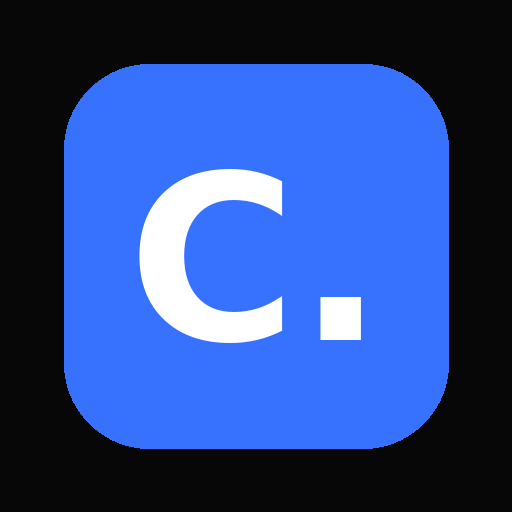
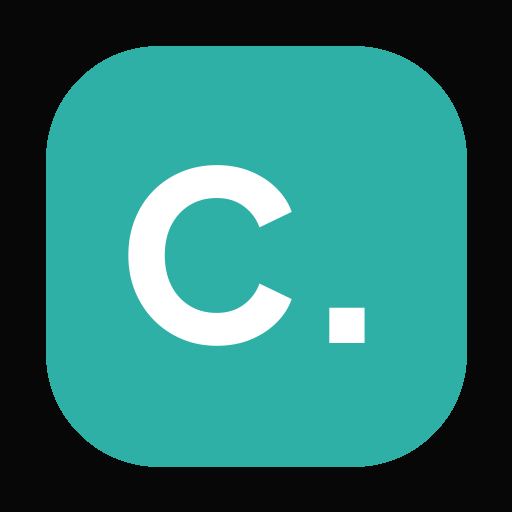
Mobile : navigation adaptée, boutons tactiles, encoches iPhone, icônes PWA
- Navigation mobile : 5 onglets (Routine, Habitudes, Planning, Boîte, Stats)
  + « Plus » (Caddr. IA, Modèles, Réglages) ; marge de sécurité en bas
  (barre d'accueil iPhone/Android). Barre complète conservée sur ordinateur.
- Écrans tactiles : boutons « révélés au survol » toujours visibles, zone de
  toucher ≥ 34 px pour les boutons-icônes, pas de zoom auto iOS sur les champs,
  pas de surbrillance au toucher.
- Encoche / barre d'état iPhone : viewport-fit=cover + marge haute de l'en-tête.
- Fenêtres (Configuration, Journal, Sauter, Déployer…) : marges réduites sur mobile.
- Planning : barre « Planning Caddr. » qui débordait → retour à la ligne.
- PWA : langue fr, nouvelles icônes à la couleur de l'app (standard, maskable,
  apple-touch-icon), manifest complété (id, scope, raccourci Habitudes),
  cache du service worker renouvelé.

Claude-Session: https://claude.ai/code/session_01Qim8noAKTwrvL2rwMewrHh

diff --git a/src/App.tsx b/src/App.tsx
@@ -15,7 +15,7 @@ import {
   Lock, LockOpen, User, LogOut, ShieldCheck, Mail, Key, Settings2, Info,
   Download, Upload, Power, Pencil, Edit3, PieChart, FileText,
   CalendarClock, ArrowUpCircle, BookOpen, PenTool, Crown, Swords,
-  Medal, Sun, Moon, RotateCcw, CloudOff, SkipForward, Hourglass, Lightbulb
+  Medal, Sun, Moon, RotateCcw, CloudOff, SkipForward, Hourglass, Lightbulb, MoreHorizontal
 } from 'lucide-react';
 import { AppData, Block, TabType, RecurrenceType, TimeframeType, RecurringGoal, Task, PriorityType, DayRoutine, UserProfile } from './types';
 import { getKeyFromDate, generateId, isDateInRange } from './utils';
@@ -99,6 +99,7 @@ const App: React.FC = () => {
   const enterGuest = () => { try { localStorage.setItem('caddr_guest', '1'); } catch {} setGuestMode(true); };
   const [isSyncing, setIsSyncing] = useState(false);
   const [isReorderMode, setIsReorderMode] = useState(false);
+  const [showMoreNav, setShowMoreNav] = useState(false);
   const [currentTime, setCurrentTime] = useState(new Date());
   
   // Theme State
@@ -316,7 +317,7 @@ const App: React.FC = () => {
   // Raccourcis d'écran d'accueil (PWA) : ouvre l'onglet demandé via ?tab=
   useEffect(() => {
     const tab = new URLSearchParams(window.location.search).get('tab');
-    const valid: TabType[] = ['routine', 'stats', 'schedule', 'templates', 'ai', 'inbox', 'settings'];
+    const valid: TabType[] = ['routine', 'stats', 'schedule', 'templates', 'ai', 'inbox', 'settings', 'habits'];
     if (tab && valid.includes(tab as TabType)) setActiveTab(tab as TabType);
   }, []);
 
@@ -2193,7 +2194,7 @@ const App: React.FC = () => {
       )}
 
       {/* Header */}
-      <header className="px-4 sm:px-6 py-4 border-b border-[#18181B]/5 dark:border-[#E6E8E6]/5 bg-[#F4F4F5]/80 dark:bg-[#080708]/80 backdrop-blur-xl sticky top-0 z-40 flex flex-col gap-4 max-w-4xl mx-auto w-full transition-colors duration-300">
+      <header style={{ paddingTop: 'max(1rem, env(safe-area-inset-top))' }} className="px-4 sm:px-6 py-4 border-b border-[#18181B]/5 dark:border-[#E6E8E6]/5 bg-[#F4F4F5]/80 dark:bg-[#080708]/80 backdrop-blur-xl sticky top-0 z-40 flex flex-col gap-4 max-w-4xl mx-auto w-full transition-colors duration-300">
         <div className="flex items-center justify-between gap-2 flex-wrap">
             <div className="flex items-center gap-2">
             <button onClick={() => { const d = new Date(currentDate); d.setDate(d.getDate()-1); setCurrentDate(d); }} className="p-2 text-[#18181B]/60 dark:text-[#E6E8E6]/60 hover:text-[#18181B] dark:hover:text-[#E6E8E6] transition-colors"><ChevronLeft size={20}/></button>
@@ -2293,7 +2294,7 @@ const App: React.FC = () => {
         </div>
       </header>
 
-      <main className="max-w-4xl mx-auto px-4 sm:px-6 mt-4 space-y-8">
+      <main className="max-w-4xl mx-auto px-4 sm:px-6 mt-4 space-y-8 pb-24 md:pb-16">
         
         {/* TAB: ROUTINE */}
         {activeTab === 'routine' && (
@@ -2339,7 +2340,7 @@ const App: React.FC = () => {
                     <span className="flex items-center gap-1">Objectif Prioritaire {currentGoal && <Repeat size={8} className="text-accent" />} {currentGoalReminder && <Clock size={8} className="text-accent ml-1" />} <span className="text-accent normal-case ml-1 font-black">{currentGoalReminder}</span></span>
                     <button onClick={() => { const id = generateId(); updateAppData(prev => { const existingGoal = (prev.recurringGoals || []).find(g => isDateInRange(currentDate, g.recurrence, g.specificDate, g.startDate, g.endDate, g.stopDate)); if (existingGoal) { setConfigModal({ type: 'goal', id: existingGoal.id }); return prev; } setConfigModal({ type: 'goal', id }); return { ...prev, recurringGoals: [...(prev.recurringGoals || []), { id, title: currentGoal || "Nouvel Objectif", recurrence: 'specific', specificDate: dateKey }] }; }); }} className="text-[#18181B]/60 dark:text-[#E6E8E6]/60 hover:text-accent transition-colors"><Clock size={12} /></button>
                 </div>
-                <input className="bg-transparent w-full text-lg font-bold outline-none placeholder-[#18181B]/30 dark:placeholder-[#E6E8E6]/30 text-[#18181B] dark:text-[#E6E8E6]" placeholder="Focus du jour..." value={currentGoal} onChange={e => updateAppData(prev => ({ ...prev, days: { ...prev.days, [dateKey]: { ...currentDayData, dailyGoalOverride: e.target.value } } }))} />
+                <input className="bg-transparent w-full text-base sm:text-lg font-bold outline-none placeholder-[#18181B]/30 dark:placeholder-[#E6E8E6]/30 text-[#18181B] dark:text-[#E6E8E6]" placeholder="Focus du jour..." value={currentGoal} onChange={e => updateAppData(prev => ({ ...prev, days: { ...prev.days, [dateKey]: { ...currentDayData, dailyGoalOverride: e.target.value } } }))} />
               </div>
             </div>
 
@@ -2462,10 +2463,10 @@ const App: React.FC = () => {
                                 <span className="text-[9px] font-black text-accent/80 uppercase tracking-wider">{blockPercentage}%</span>
                                 {!block.isCollapsed && (
                                   <div className="flex gap-1 animate-in zoom-in-50">
-                                    <button onClick={() => setConfigModal({ type: 'block', id: block.id })} className="p-1 text-[#18181B]/60 dark:text-[#E6E8E6]/60 hover:text-accent transition-colors" title="Configurer le bloc"><Settings2 size={14} /></button>
-                                    <button onClick={() => { saveToHistory(); handleRoutineStructureChange(blocks => blocks.filter(b => b.id !== block.id)); }} className="p-1 text-[#18181B]/60 dark:text-[#E6E8E6]/60 hover:text-[#DF2935] transition-colors" title="Supprimer le bloc (ce jour uniquement)"><Trash2 size={14} /></button>
-                                    <button onClick={() => addTaskToBlock(block.id)} className="p-1 text-[#18181B]/60 dark:text-[#E6E8E6]/60 hover:text-accent transition-colors"><Plus size={14} /></button>
-                                    <button onClick={() => handleDuplicate('block', block.id)} className="p-1 text-[#18181B]/60 dark:text-[#E6E8E6]/60 hover:text-accent transition-colors"><Copy size={14} /></button>
+                                    <button onClick={() => setConfigModal({ type: 'block', id: block.id })} className="p-2 sm:p-1 text-[#18181B]/60 dark:text-[#E6E8E6]/60 hover:text-accent transition-colors" title="Configurer le bloc"><Settings2 size={14} /></button>
+                                    <button onClick={() => { saveToHistory(); handleRoutineStructureChange(blocks => blocks.filter(b => b.id !== block.id)); }} className="p-2 sm:p-1 text-[#18181B]/60 dark:text-[#E6E8E6]/60 hover:text-[#DF2935] transition-colors" title="Supprimer le bloc (ce jour uniquement)"><Trash2 size={14} /></button>
+                                    <button onClick={() => addTaskToBlock(block.id)} className="p-2 sm:p-1 text-[#18181B]/60 dark:text-[#E6E8E6]/60 hover:text-accent transition-colors"><Plus size={14} /></button>
+                                    <button onClick={() => handleDuplicate('block', block.id)} className="p-2 sm:p-1 text-[#18181B]/60 dark:text-[#E6E8E6]/60 hover:text-accent transition-colors"><Copy size={14} /></button>
                                     {isReorderMode && <button {...blockHandle} className="cursor-grab active:cursor-grabbing touch-none p-1 text-accent" title="Glisser pour réordonner"><GripVertical size={14} /></button>}
                                   </div>
                                 )}
@@ -2708,9 +2709,9 @@ const App: React.FC = () => {
                 </div>
               </div>
             ) : (
-              <div className="glass p-6 rounded-[2rem] flex items-center justify-between border border-accent/20 bg-accent/5">
+              <div className="glass p-5 sm:p-6 rounded-[2rem] flex flex-wrap items-center justify-between gap-4 border border-accent/20 bg-accent/5">
                 <div><h2 className="font-black uppercase tracking-wider text-sm text-[#18181B] dark:text-[#E6E8E6]">PLANNING CADDR.</h2><p className="text-[9px] text-[#18181B]/60 dark:text-[#E6E8E6]/60 font-bold uppercase">Structure & Objectifs</p></div>
-                <div className="flex gap-2">
+                <div className="flex flex-wrap gap-2">
                   <button onClick={() => setTemplateModal(true)} title="Enregistrer comme modèle" className="p-3 bg-[#18181B]/5 dark:bg-[#E6E8E6]/5 rounded-2xl text-[#18181B]/60 dark:text-[#E6E8E6]/60 hover:text-white hover:bg-accent transition-all"><Save size={20} /></button>
                   <button onClick={() => setShowAiGen(true)} title="Générer avec IA" className="p-3 bg-[#FDCA40] rounded-2xl text-[#080708] shadow-lg"><Wand2 size={20} /></button>
                   <input type="file" ref={fileInputRef} onChange={handleVisionImport} className="hidden" accept="image/*" />
@@ -2862,7 +2863,7 @@ const App: React.FC = () => {
         {activeTab === 'inbox' && (
           <div className="space-y-6 animate-in slide-in-from-left-4 duration-500 pb-20">
             {/* ... Existing Inbox Code ... */}
-            <div className="glass p-8 rounded-[2.5rem] space-y-4 border border-accent/20 bg-accent/5">
+            <div className="glass p-5 sm:p-8 rounded-[2.5rem] space-y-4 border border-accent/20 bg-accent/5">
               <div className="flex items-center gap-3"><div className="w-12 h-12 bg-accent/10 rounded-2xl flex items-center justify-center"><Archive className="text-accent" size={24} /></div><div><h2 className="font-black text-lg uppercase leading-tight text-[#18181B] dark:text-[#E6E8E6]">Boîte de tâches</h2><p className="text-[9px] text-[#18181B]/60 dark:text-[#E6E8E6]/60 uppercase font-black">Capturer vos idées en un clin d'œil</p></div></div>
               <div className="space-y-1.5 pt-2"><div className="flex gap-2"><input className="flex-1 bg-white dark:bg-[#080708] p-4 rounded-2xl text-sm font-bold border border-[#18181B]/5 dark:border-[#E6E8E6]/5 outline-none focus:border-accent transition-all text-[#18181B] dark:text-[#E6E8E6]" placeholder="Ex : Appeler Paul demain 15h p1 @appel" value={newInboxTitle} onChange={e => setNewInboxTitle(e.target.value)} onKeyDown={e => e.key === 'Enter' && addInboxTask()} /><button onClick={addInboxTask} className="p-4 bg-accent rounded-2xl text-white shadow-lg shadow-accent/20 active:scale-95 transition-all"><Plus size={20} /></button></div><p className="text-[9px] font-medium text-[#18181B]/40 dark:text-[#E6E8E6]/40 px-1">Reconnaît « demain », « lundi », « 20/10 », « chaque mardi », « 15h30 », « p1/p2/p3 », « @étiquette » et « avant vendredi » (échéance).</p></div>
             </div>
@@ -3123,7 +3124,47 @@ const App: React.FC = () => {
 
       {/* Navigation */}
       {/* Barre du bas — toujours sur mobile ; sur desktop uniquement si position = bas */}
-      <nav className={`fixed bottom-0 left-0 right-0 z-50 bg-[#F4F4F5]/90 dark:bg-[#080708]/90 backdrop-blur-3xl border-t border-[#18181B]/5 dark:border-[#E6E8E6]/5 pb-10 pt-4 px-4 overflow-x-auto custom-scrollbar transition-colors duration-300 ${navPosition === 'left' ? 'md:hidden' : ''}`}>
+      {/* Navigation mobile : 5 onglets principaux + « Plus » (feuille avec les autres) */}
+      <nav className="md:hidden fixed bottom-0 left-0 right-0 z-50 bg-[#F4F4F5]/95 dark:bg-[#080708]/95 backdrop-blur-3xl border-t border-[#18181B]/5 dark:border-[#E6E8E6]/5 pt-2 px-2 transition-colors duration-300" style={{ paddingBottom: 'max(0.6rem, env(safe-area-inset-bottom))' }} aria-label="Navigation principale">
+        <div className="grid grid-cols-6">
+          {(() => {
+            const primary = ['routine', 'habits', 'schedule', 'inbox', 'stats'];
+            const secondaryActive = !primary.includes(activeTab);
+            return (
+              <>
+                {navTabs.filter(t => primary.includes(t.id)).map(tab => (
+                  <button key={tab.id} onClick={() => { setActiveTab(tab.id as TabType); setIsReorderMode(false); setShowMoreNav(false); }} aria-current={activeTab === tab.id ? 'page' : undefined}
+                    className={`flex flex-col items-center gap-1 py-1.5 rounded-xl transition-all ${activeTab === tab.id ? 'text-accent' : 'text-[#18181B]/60 dark:text-[#E6E8E6]/60'}`}>
+                    <tab.icon size={21} strokeWidth={activeTab === tab.id ? 2.5 : 2} />
+                    <span className="text-[9px] font-black whitespace-nowrap">{tab.label === 'Analytics' ? 'Stats' : tab.label}</span>
+                  </button>
+                ))}
+                <button onClick={() => setShowMoreNav(v => !v)} aria-expanded={showMoreNav}
+                  className={`flex flex-col items-center gap-1 py-1.5 rounded-xl transition-all ${secondaryActive || showMoreNav ? 'text-accent' : 'text-[#18181B]/60 dark:text-[#E6E8E6]/60'}`}>
+                  <MoreHorizontal size={21} strokeWidth={secondaryActive ? 2.5 : 2} />
+                  <span className="text-[9px] font-black">Plus</span>
+                </button>
+              </>
+            );
+          })()}
+        </div>
+      </nav>
+      {showMoreNav && (
+        <div className="md:hidden fixed inset-0 z-[45]" onClick={() => setShowMoreNav(false)}>
+          <div className="absolute inset-0 bg-black/40" />
+          <div className="absolute left-3 right-3 glass bg-[#F4F4F5] dark:bg-[#111] rounded-3xl p-3 space-y-1 animate-in slide-in-from-bottom-4" style={{ bottom: 'calc(max(0.6rem, env(safe-area-inset-bottom)) + 4.6rem)' }} onClick={e => e.stopPropagation()}>
+            {navTabs.filter(t => !['routine', 'habits', 'schedule', 'inbox', 'stats'].includes(t.id)).map(tab => (
+              <button key={tab.id} onClick={() => { setActiveTab(tab.id as TabType); setIsReorderMode(false); setShowMoreNav(false); }}
+                className={`w-full flex items-center gap-3 px-4 py-3.5 rounded-2xl text-sm font-bold transition-all ${activeTab === tab.id ? 'bg-accent/15 text-accent' : 'text-[#18181B] dark:text-[#E6E8E6] hover:bg-[#18181B]/5 dark:hover:bg-[#E6E8E6]/5'}`}>
+                <tab.icon size={19} /> {tab.label}
+              </button>
+            ))}
+          </div>
+        </div>
+      )}
+
+      {/* Navigation ordinateur (barre du bas) */}
+      <nav className={`hidden md:block fixed bottom-0 left-0 right-0 z-50 bg-[#F4F4F5]/90 dark:bg-[#080708]/90 backdrop-blur-3xl border-t border-[#18181B]/5 dark:border-[#E6E8E6]/5 pb-6 pt-4 px-4 overflow-x-auto custom-scrollbar transition-colors duration-300 ${navPosition === 'left' ? 'md:hidden' : ''}`}>
         <div className="max-w-4xl mx-auto flex items-center justify-between gap-4 min-w-max px-4">
           {navTabs.map(tab => (
             <button key={tab.id} onClick={() => { setActiveTab(tab.id as TabType); setIsReorderMode(false); }} className={`flex flex-col items-center gap-2 transition-all px-2 ${activeTab === tab.id ? 'text-accent scale-110' : 'text-[#18181B]/60 dark:text-[#E6E8E6]/60'}`}>
@@ -3235,7 +3276,7 @@ const App: React.FC = () => {
 
       {showLevelUpModal && (
         <div className="fixed inset-0 z-[200] bg-[#080708]/90 backdrop-blur-2xl flex items-center justify-center p-6 animate-in zoom-in-50 duration-500">
-           <div className="glass w-full max-w-sm p-10 rounded-[3.5rem] shadow-[0_0_50px_rgba(47, 176, 166,0.3)] border border-accent/30 relative overflow-hidden group text-center space-y-6">
+           <div className="glass w-full max-w-sm p-6 sm:p-10 rounded-[3.5rem] shadow-[0_0_50px_rgba(47, 176, 166,0.3)] border border-accent/30 relative overflow-hidden group text-center space-y-6">
               {/* Confetti / Rays effect bg */}
               <div className="absolute inset-0 bg-gradient-to-tr from-accent/20 via-transparent to-[#FDCA40]/20 animate-pulse" />
               
@@ -3267,7 +3308,7 @@ const App: React.FC = () => {
         <div className="fixed inset-0 z-[110] bg-[#F4F4F5]/95 dark:bg-[#080708]/95 backdrop-blur-xl flex items-center justify-center p-4 sm:p-6 animate-in fade-in">
            <div className="glass relative w-full rounded-[3rem] max-h-[94vh] flex flex-col" style={{ maxWidth: logSize.width }}>
               <SideResizeHandles onStart={logSize.startResize} onReset={logSize.reset} />
-              <div className="p-10 space-y-6 overflow-y-auto custom-scrollbar">
+              <div className="p-6 sm:p-10 space-y-6 overflow-y-auto custom-scrollbar">
               <button
                 onClick={() => { setLogModal(null); setCurrentLogText(""); }}
                 title="Fermer (Échap)"
@@ -3318,7 +3359,7 @@ const App: React.FC = () => {
           <div className="glass relative w-full rounded-[3rem] max-h-[90vh] flex flex-col" style={{ maxWidth: configSize.width }}>
             <SideResizeHandles onStart={configSize.startResize} onReset={configSize.reset} />
 
-            <div className="relative shrink-0 px-10 pt-8 pb-4 text-center">
+            <div className="relative shrink-0 px-6 sm:px-10 pt-7 sm:pt-8 pb-4 text-center">
               <h3 className="font-black uppercase text-sm tracking-widest italic text-[#18181B] dark:text-[#E6E8E6]">Configuration</h3>
               <button
                 onClick={() => setConfigModal(null)}
@@ -3330,7 +3371,7 @@ const App: React.FC = () => {
               </button>
             </div>
 
-          <div className="px-10 pb-10 space-y-6 overflow-y-auto custom-scrollbar">
+          <div className="px-5 sm:px-10 pb-8 sm:pb-10 space-y-6 overflow-y-auto custom-scrollbar">
             
             <div className="space-y-4">
               <div className="space-y-2">
@@ -3647,7 +3688,7 @@ const App: React.FC = () => {
       {/* SKIP TODAY MODAL — remplace window.prompt pour respecter le design de l'app */}
       {skipModal && (
         <div className="fixed inset-0 z-[120] bg-[#F4F4F5]/95 dark:bg-[#080708]/95 backdrop-blur-xl flex items-center justify-center p-6 animate-in fade-in" onMouseDown={(e) => { if (e.target === e.currentTarget) setSkipModal(null); }}>
-           <div className="glass relative w-full max-w-sm p-10 rounded-[3rem] space-y-6 animate-in zoom-in-95">
+           <div className="glass relative w-full max-w-sm p-6 sm:p-10 rounded-[3rem] space-y-6 animate-in zoom-in-95">
               <button
                 onClick={() => setSkipModal(null)}
                 aria-label="Fermer"
@@ -3711,7 +3752,7 @@ const App: React.FC = () => {
       {/* RESCHEDULE MODAL */}
       {rescheduleModal && (
         <div className="fixed inset-0 z-[110] bg-[#F4F4F5]/95 dark:bg-[#080708]/95 backdrop-blur-xl flex items-center justify-center p-6 animate-in fade-in">
-           <div className="glass w-full max-w-sm p-10 rounded-[3rem] space-y-6">
+           <div className="glass w-full max-w-sm p-6 sm:p-10 rounded-[3rem] space-y-6">
               <div className="text-center">
                  <div className="w-16 h-16 bg-[#FDCA40]/10 rounded-2xl flex items-center justify-center mx-auto mb-4">
                     <CalendarClock className="text-[#FDCA40]" size={24} />
@@ -3808,7 +3849,7 @@ const App: React.FC = () => {
            <div className="glass relative w-full rounded-[3rem] max-h-[92vh] flex flex-col" style={{ maxWidth: deploySize.width }}>
               <SideResizeHandles onStart={deploySize.startResize} onReset={deploySize.reset} />
               <button onClick={closeDeploy} title="Fermer (Échap)" aria-label="Fermer" className="absolute z-20 top-7 right-7 w-7 h-7 rounded-full flex items-center justify-center bg-[#18181B]/5 dark:bg-[#E6E8E6]/5 text-[#18181B]/60 dark:text-[#E6E8E6]/60 hover:bg-accent hover:text-white transition-all"><X size={14} strokeWidth={3} /></button>
-              <div className="p-8 sm:p-10 space-y-6 overflow-y-auto custom-scrollbar">
+              <div className="p-6 sm:p-10 space-y-6 overflow-y-auto custom-scrollbar">
               <div className="text-center space-y-2">
                  <div className="w-14 h-14 bg-accent/10 rounded-2xl flex items-center justify-center mx-auto mb-3">
                     <Send className="text-accent" size={22} />
@@ -4007,7 +4048,7 @@ const App: React.FC = () => {
 
       {showAiGen && (
         <div className="fixed inset-0 z-[100] bg-[#F4F4F5]/95 dark:bg-[#080708]/95 backdrop-blur-xl flex items-center justify-center p-6 animate-in fade-in">
-          <div className="glass w-full max-w-sm p-10 rounded-[3rem] space-y-6 shadow-2xl border border-[#FDCA40]/20">
+          <div className="glass w-full max-w-sm p-6 sm:p-10 rounded-[3rem] space-y-6 shadow-2xl border border-[#FDCA40]/20">
             <div className="text-center"><div className="w-16 h-16 bg-[#FDCA40]/10 rounded-3xl flex items-center justify-center mx-auto mb-4"><Wand2 className="text-[#FDCA40]" size={28} /></div><h3 className="text-xl font-black uppercase text-[#18181B] dark:text-[#E6E8E6]">Architecte IA</h3></div>
             <textarea className="w-full bg-[#18181B]/5 dark:bg-[#080708] p-5 rounded-[2rem] text-sm border border-[#18181B]/5 dark:border-[#E6E8E6]/5 outline-none focus:border-[#FDCA40] h-32 font-semibold text-[#18181B] dark:text-[#E6E8E6]" placeholder="Décrivez vos objectifs de vie..." value={aiGoal} onChange={e => setAiGoal(e.target.value)} />
             <div className="flex gap-4"><button onClick={() => setShowAiGen(false)} className="flex-1 py-5 text-[#18181B]/60 dark:text-[#E6E8E6]/60 font-black uppercase text-[10px]">Annuler</button><button onClick={handleGenerateRoutine} disabled={isAiLoading || !aiGoal} className="flex-1 bg-[#FDCA40] py-5 rounded-[2rem] text-[10px] font-black uppercase text-[#080708]">{isAiLoading ? <Loader2 className="animate-spin mx-auto" size={16} /> : "Générer"}</button></div>

diff --git a/src/index.css b/src/index.css
@@ -59,3 +59,25 @@ body {
 }
 .analytics-embed > .glass h2,
 .analytics-embed > div > .glass h2 { display: none; }
+
+/* Écrans tactiles : pas de survol → les boutons « révélés au survol » restent visibles */
+@media (hover: none) {
+  .group-hover\:opacity-100,
+  .group-hover\/sub\:opacity-100 { opacity: 1 !important; }
+}
+/* Pas de zoom automatique iOS sur les champs (police ≥ 16 px au focus) */
+@media (max-width: 640px) and (pointer: coarse) {
+  input:not([type="checkbox"]):not([type="radio"]):not([type="range"]), textarea, select { font-size: max(16px, 1em); }
+}
+/* Pas de surbrillance grise au toucher */
+* { -webkit-tap-highlight-color: transparent; }
+/* Écrans tactiles : zone de toucher d'au moins 34 px pour les boutons-icônes */
+@media (pointer: coarse) {
+  main button:has(> svg:only-child):not([aria-label="Marquer comme réglée"]) {
+    min-width: 34px;
+    min-height: 34px;
+    display: inline-flex;
+    align-items: center;
+    justify-content: center;
+  }
+}

diff --git a/index.html b/index.html
@@ -1,12 +1,15 @@
 <!DOCTYPE html>
-<html lang="en" class="dark">
+<html lang="fr" class="dark">
 <head>
     <meta charset="UTF-8">
-    <meta name="viewport" content="width=device-width, initial-scale=1.0">
+    <meta name="viewport" content="width=device-width, initial-scale=1.0, viewport-fit=cover">
+    <meta name="description" content="Caddr. — ta routine quotidienne, tes habitudes et tes statistiques.">
+    <meta name="mobile-web-app-capable" content="yes">
     <title>Caddr.</title>
     <link rel="manifest" href="/manifest.webmanifest">
     <meta name="theme-color" content="#080708">
-    <link rel="apple-touch-icon" href="/icon-192.png">
+    <link rel="apple-touch-icon" href="/apple-touch-icon.png">
+    <link rel="icon" type="image/png" href="/icon-192.png">
     <meta name="apple-mobile-web-app-capable" content="yes">
     <meta name="apple-mobile-web-app-status-bar-style" content="black-translucent">
     <meta name="apple-mobile-web-app-title" content="Caddr.">

diff --git a/src/components/InboxView.tsx b/src/components/InboxView.tsx
@@ -163,7 +163,7 @@ const InboxView: React.FC<Props> = ({ items, onChange, onTransfer, saveToHistory
             onClick={() => toggleDone(task)}
             title="Marquer comme réglée"
             aria-label="Marquer comme réglée"
-            className="group/ck w-5 h-5 shrink-0 rounded-lg border-2 border-[#18181B]/20 dark:border-[#E6E8E6]/20 hover:border-accent flex items-center justify-center transition-all"
+            className="group/ck w-7 h-7 sm:w-5 sm:h-5 shrink-0 rounded-lg border-2 border-[#18181B]/20 dark:border-[#E6E8E6]/20 hover:border-accent flex items-center justify-center transition-all"
           >
             <Check size={11} strokeWidth={3} className="text-accent opacity-0 group-hover/ck:opacity-100" />
           </button>

diff --git a/public/sw.js b/public/sw.js
@@ -1,5 +1,5 @@
 // Service Worker Caddr. — cache des assets pour un fonctionnement hors-ligne.
-const CACHE = 'caddr-v1';
+const CACHE = 'caddr-v2';
 const OFFLINE_URL = '/index.html';
 
 self.addEventListener('install', (e) => {
